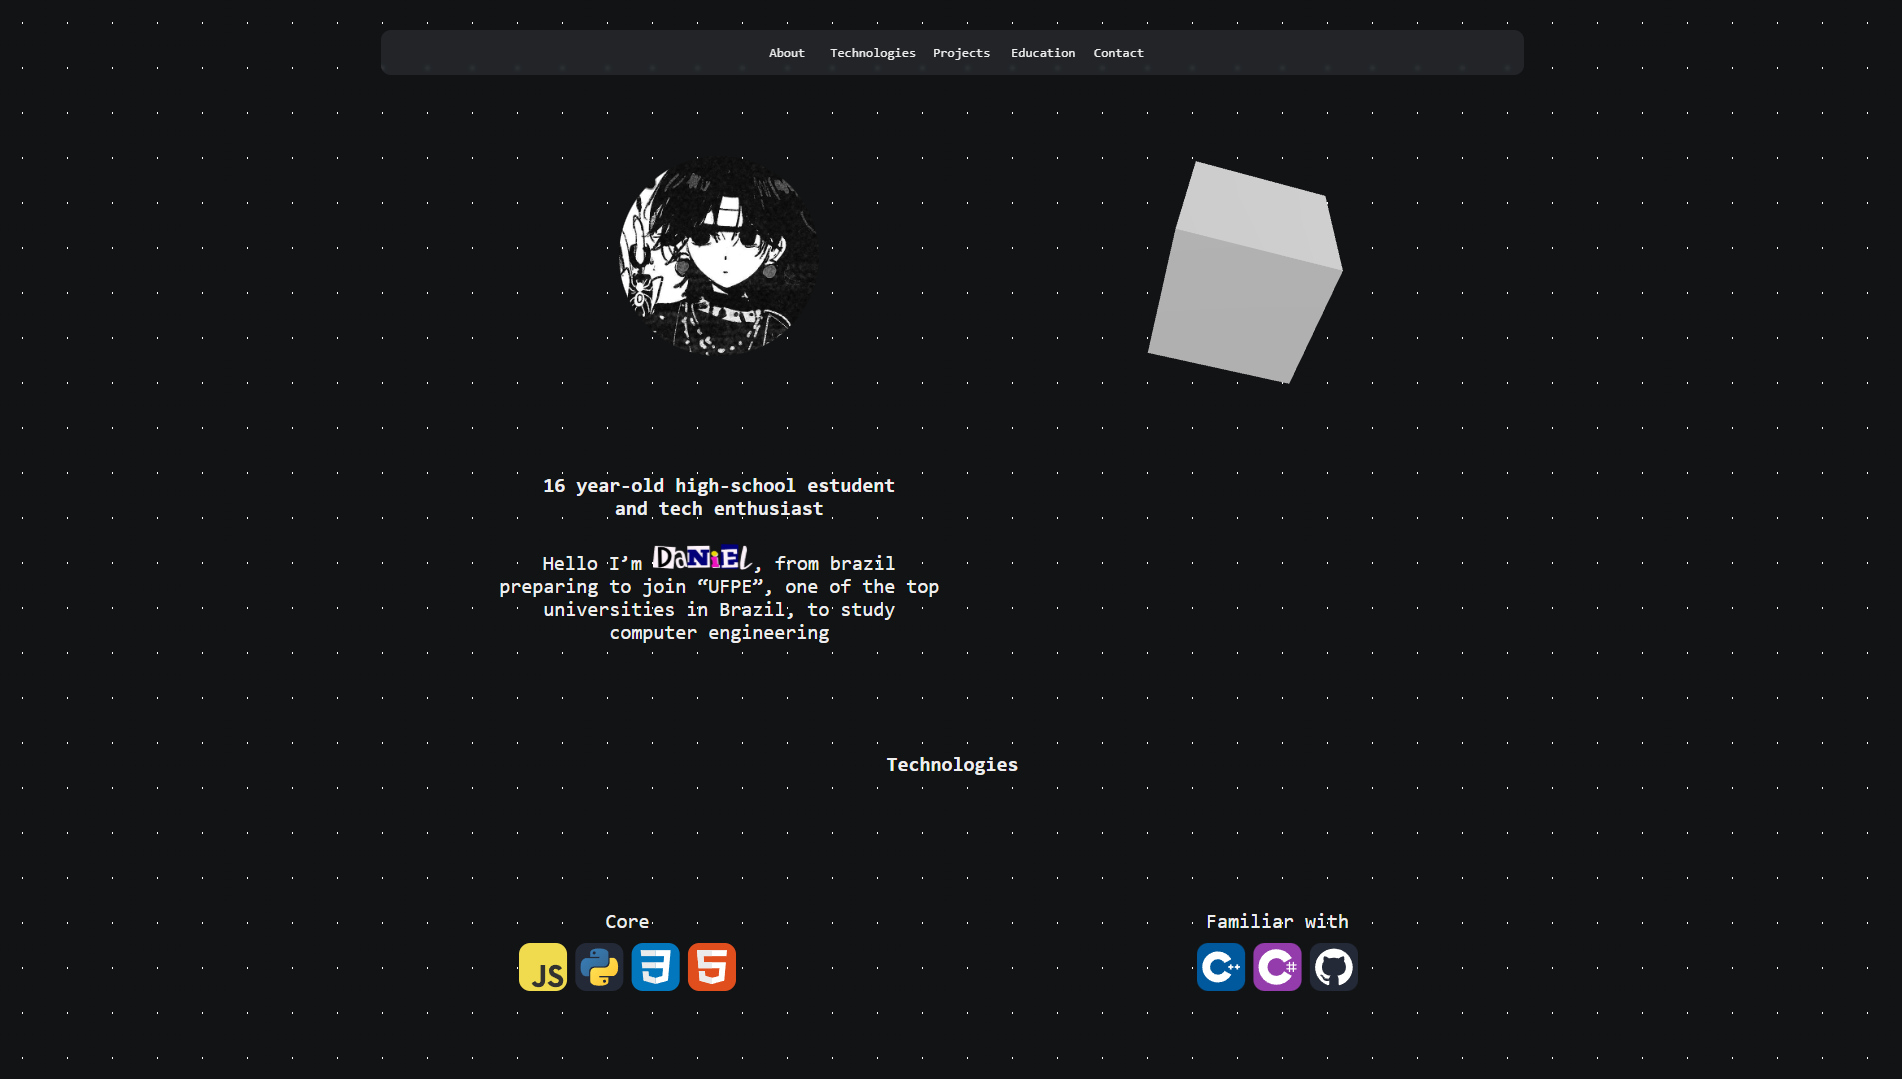
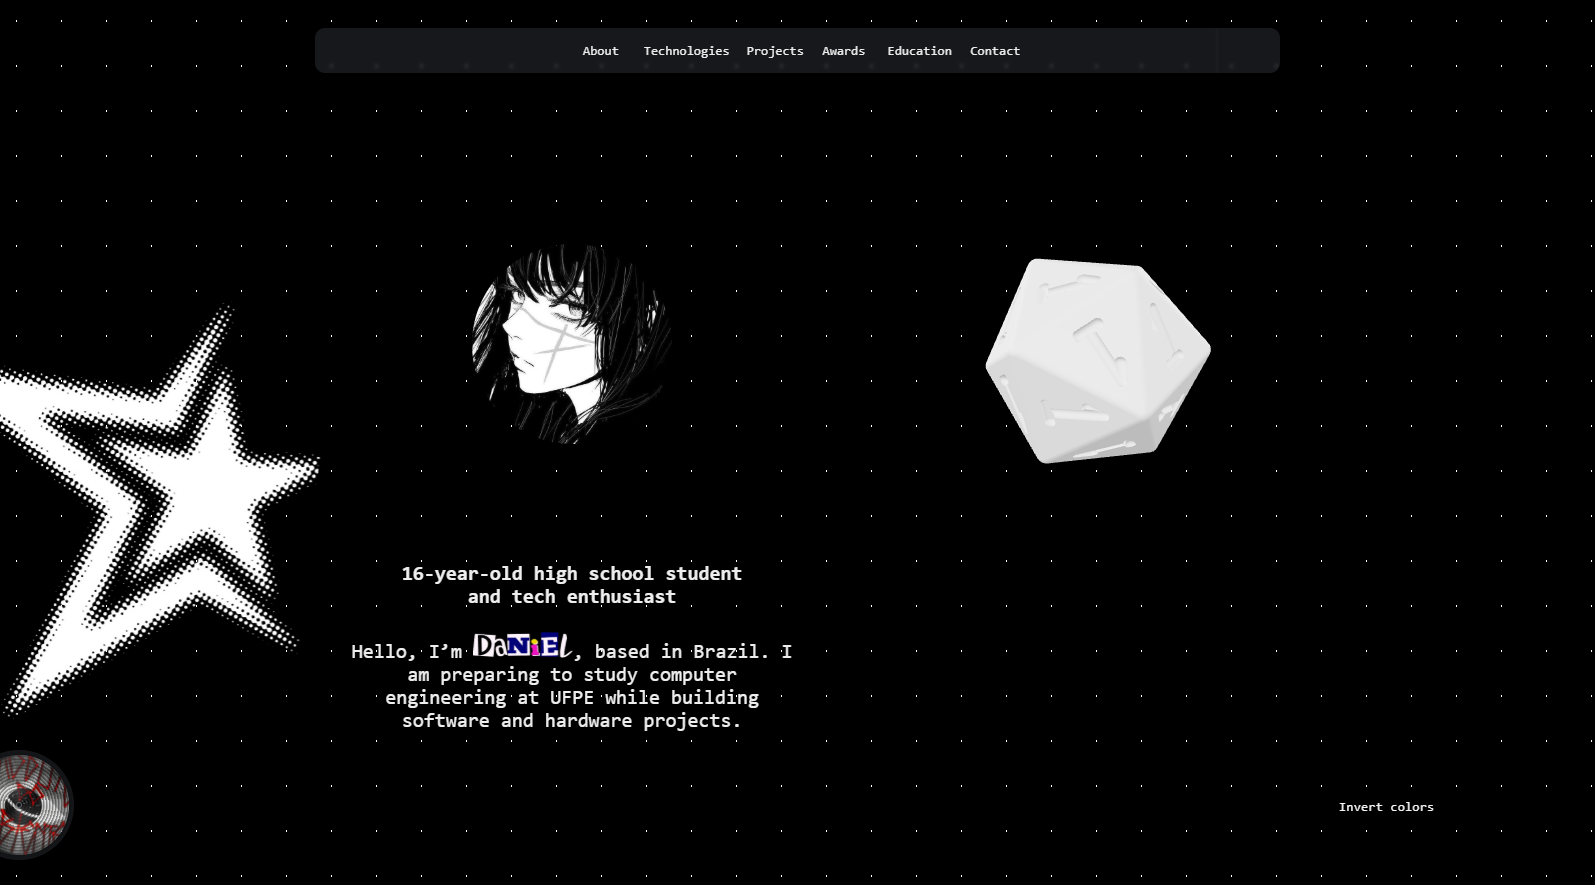
Update README and refresh preview assets
Expand documentation with Built With, Features, Spotify Requirement, and a live site link. Add more detailed site description and feature list. Add assets/oldpreview.png to preserve the previous screenshot and replace assets/preview.png with an updated preview image.

diff --git a/README.md b/README.md
@@ -1,13 +1,39 @@
 # Dan's Personal Website
-My personal website and portfolio.
 
-<!-- A GIF or screenshot of the site can be added here later. -->
+A personal website and portfolio for software and hardware projects.
+
 ![Preview Image](assets/preview.png)
 
-## 🎯 Why?
-I created this page to practice and learn more about Web Development, HTML, and CSS.
+## Why?
 
-## 🛠 Built with:
-* **HTML5** - Page structure and elements 🧱
-* **CSS3** - Styling, animations, and responsiveness 🎨
-* **GitHub Pages** - Project hosting and deployment 🚀
+I created this website to practice web development with HTML and CSS and to showcase my software, hardware, projects, and achievements.
+
+## Built With
+
+* **HTML5** - Page structure and content
+* **CSS3** - Styling, animations, and responsive layouts
+* **JavaScript** - Theme controls and Spotify status updates
+* **Model Viewer** - Interactive 3D model display
+* **Lanyard API** - Current Spotify activity and album artwork
+* **GitHub Pages** - Hosting and deployment
+
+## Features
+
+* **Spotify integration** - Displays the currently playing song and album artwork through Lanyard
+* **Interactive 3D model** - Shows a rotating 3D model with Model Viewer
+* **Light mode** - Inverts the website colors with a button
+* **Smooth navigation** - Provides fixed navigation with smooth scrolling between sections
+* **Project portfolio** - Separates software and hardware projects into dedicated pages
+* **Project links** - Links to source code and playable projects
+* **Awards timeline** - Presents achievements and awards in a visual timeline
+* **Animated background** - Uses rotating decorative background elements
+* **Responsive design** - Adapts the layout for desktop and mobile screens
+* **Technology showcase** - Displays programming languages, tools, and game engines
+
+## Spotify Requirement
+
+The Spotify widget uses the Lanyard API and requires the associated Discord account to be connected to Lanyard, with Discord activity sharing enabled. A song and album artwork appear only while Spotify is actively playing.
+
+## Live Website
+
+[https://danielmcneto.github.io/personalwebsite/](https://danielmcneto.github.io/personalwebsite/)
